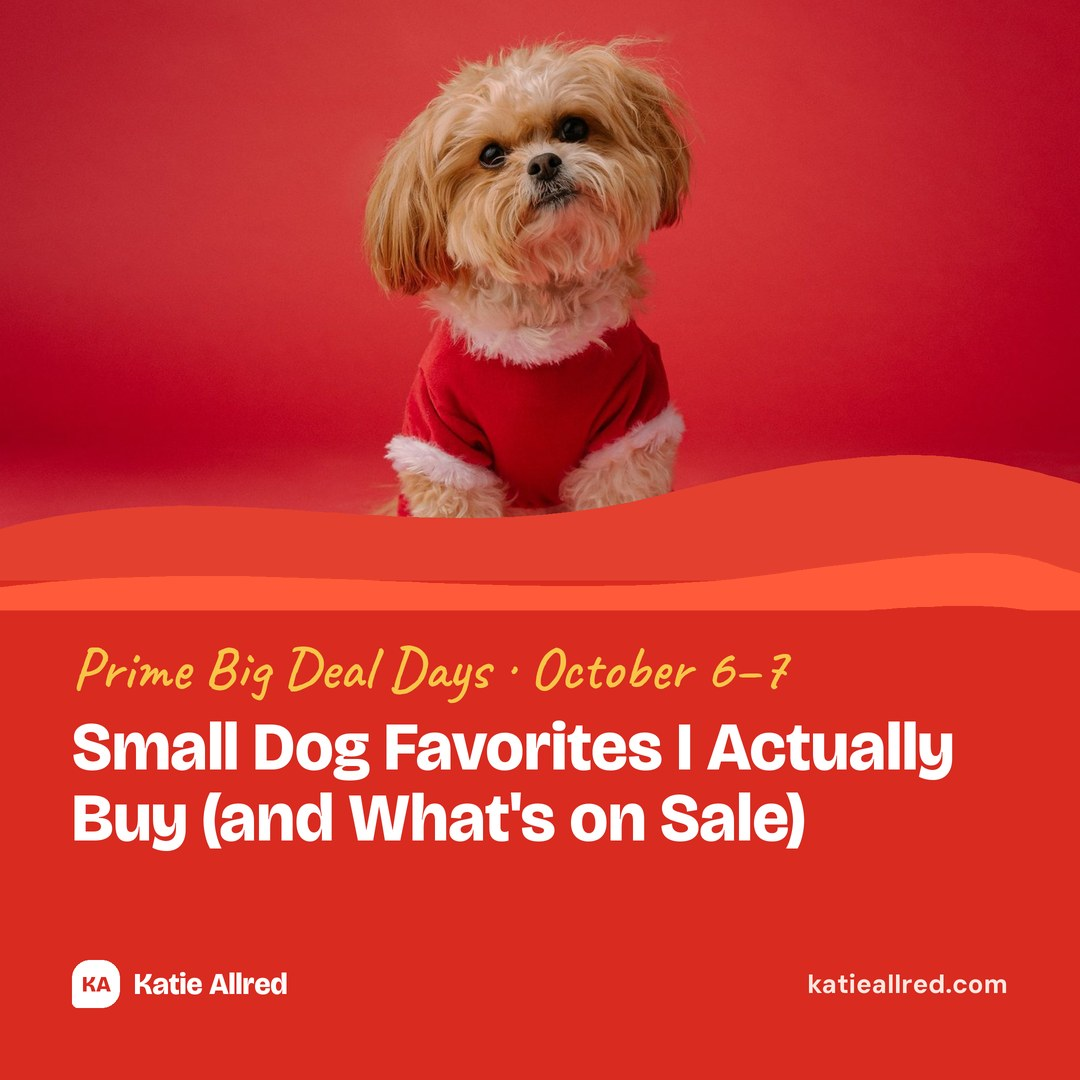
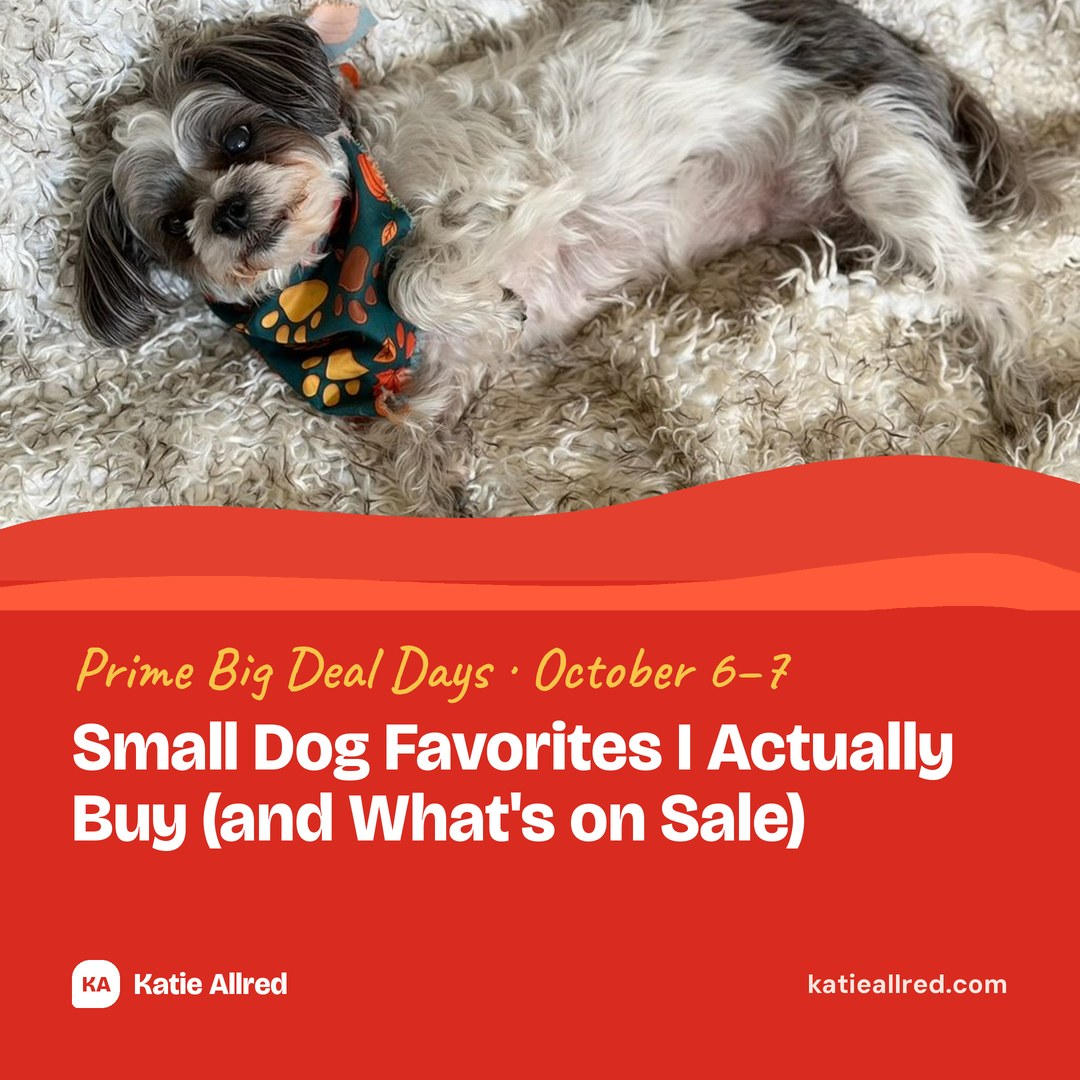
Use Katie's photo of Susie on the small-dog post and its social card
Replaces the two stock dog photos with Katie's own picture of Susie as the
post's featured image (with alt text) and redraws the social card from it.

Claude-Session: https://claude.ai/code/session_01MZmEp2oEaFfP47p7B92jqi

diff --git a/_posts/2026-10-06-small-dog-favorites-i-actually-buy-and-whats-on-sale.md b/_posts/2026-10-06-small-dog-favorites-i-actually-buy-and-whats-on-sale.md
@@ -7,8 +7,8 @@ permalink: /small-dog-favorites-i-actually-buy-and-whats-on-sale/
 last_modified_at: '2026-10-07 10:00:00'
 product_images: true
 deal_cards: true
-image: /assets/uploads/2026/10/unsplash-tUCvnMOvXFQ.jpg
-featured_image_alt: "A small fluffy dog in a red sweater sitting against a red background"
+image: /assets/uploads/2026/10/susie-shih-tzu-fall-bandana.jpg
+featured_image_alt: "Susie, a gray and white shih tzu in a fall paw-print bandana, lying on her back on a fluffy rug"
 description: "Food, toys and grooming picks for small dogs from my own Amazon order history, with the Prime Big Deal Days markdowns listed first."
 categories:
 - Life
@@ -55,8 +55,6 @@ I have not bought these myself. Each carried a Prime Big Deal badge when I check
 - [Earth Rated Dog Shampoo for Curly and Wavy Coats](https://www.amazon.com/dp/B0D4CDS53S).
 - [Douxo S3 Calm Dog Shampoo](https://www.amazon.com/dp/B09478KGJZ). Ask your vet whether it fits your dog.
 - [Weruva Awesome Belly Wet Dog Food](https://www.amazon.com/dp/B0DJFWMSLW).
-
-![A white and brown shih tzu looking at the camera with its tongue out](/assets/uploads/2026/10/unsplash-5QcwI4oxL6g.jpg)
 
 ## Start with what you already use
 
